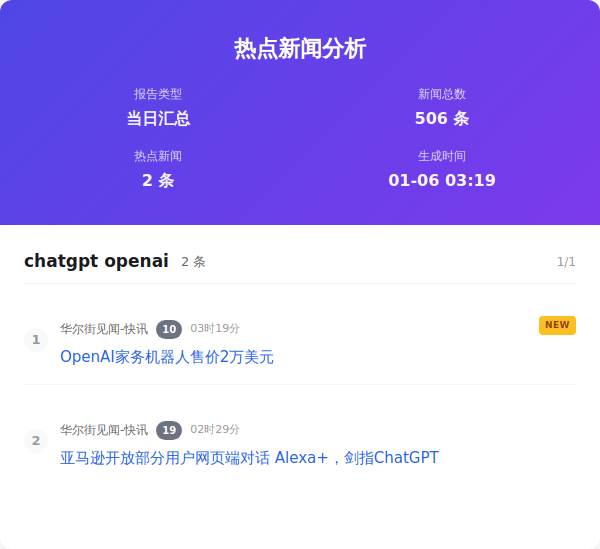
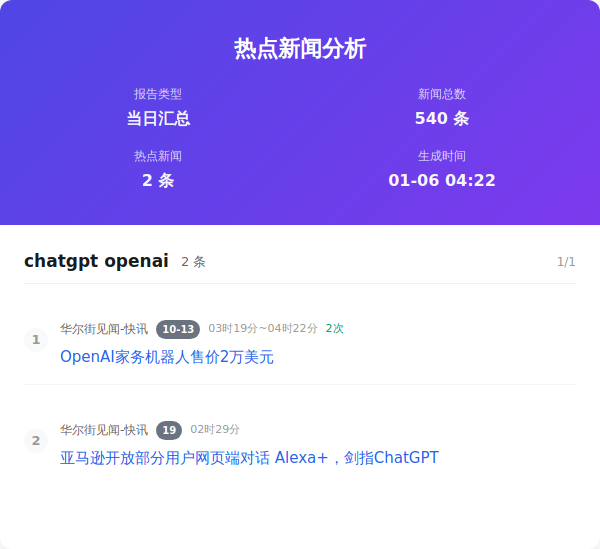
Auto update by GitHub Actions at Tue Jan  6 04:22:47 CST 2026

diff --git a/output/2026年01月06日/html/04时22分.html b/output/2026年01月06日/html/04时22分.html
@@ -353,15 +353,15 @@
                 <div class="header-info">
                     <div class="info-item">
                         <span class="info-label">报告类型</span>
-                        <span class="info-value">当日汇总</span>
+                        <span class="info-value">实时分析</span>
                     </div>
                     <div class="info-item">
                         <span class="info-label">新闻总数</span>
-                        <span class="info-value">540 条</span>
+                        <span class="info-value">255 条</span>
                     </div>
                     <div class="info-item">
                         <span class="info-label">热点新闻</span>
-                        <span class="info-value">2 条</span>
+                        <span class="info-value">0 条</span>
                     </div>
                     <div class="info-item">
                         <span class="info-label">生成时间</span>
@@ -371,35 +371,6 @@
             </div>
 
             <div class="content">
-                <div class="word-group">
-                    <div class="word-header">
-                        <div class="word-info">
-                            <div class="word-name">chatgpt openai</div>
-                            <div class="word-count ">2 条</div>
-                        </div>
-                        <div class="word-index">1/1</div>
-                    </div>
-                    <div class="news-item ">
-                        <div class="news-number">1</div>
-                        <div class="news-content">
-                            <div class="news-header">
-                                <span class="source-name">华尔街见闻-快讯</span><span class="rank-num ">10-13</span><span class="time-info">03时19分~04时22分</span><span class="count-info">2次</span>
-                            </div>
-                            <div class="news-title"><a href="https://wallstreetcn.com/livenews/3031066" target="_blank" class="news-link">OpenAI家务机器人售价2万美元</a>
-                            </div>
-                        </div>
-                    </div>
-                    <div class="news-item ">
-                        <div class="news-number">2</div>
-                        <div class="news-content">
-                            <div class="news-header">
-                                <span class="source-name">华尔街见闻-快讯</span><span class="rank-num ">19</span><span class="time-info">02时29分</span>
-                            </div>
-                            <div class="news-title"><a href="https://wallstreetcn.com/livenews/3031031" target="_blank" class="news-link">亚马逊开放部分用户网页端对话 Alexa+，剑指ChatGPT</a>
-                            </div>
-                        </div>
-                    </div>
-                </div>
             </div>
         </div>
     </body>

diff --git a/output/2026年01月06日/html/当日汇总.html b/output/2026年01月06日/html/当日汇总.html
@@ -357,7 +357,7 @@
                     </div>
                     <div class="info-item">
                         <span class="info-label">新闻总数</span>
-                        <span class="info-value">506 条</span>
+                        <span class="info-value">540 条</span>
                     </div>
                     <div class="info-item">
                         <span class="info-label">热点新闻</span>
@@ -365,7 +365,7 @@
                     </div>
                     <div class="info-item">
                         <span class="info-label">生成时间</span>
-                        <span class="info-value">01-06 03:19</span>
+                        <span class="info-value">01-06 04:22</span>
                     </div>
                 </div>
             </div>
@@ -379,11 +379,11 @@
                         </div>
                         <div class="word-index">1/1</div>
                     </div>
-                    <div class="news-item new">
+                    <div class="news-item ">
                         <div class="news-number">1</div>
                         <div class="news-content">
                             <div class="news-header">
-                                <span class="source-name">华尔街见闻-快讯</span><span class="rank-num ">10</span><span class="time-info">03时19分</span>
+                                <span class="source-name">华尔街见闻-快讯</span><span class="rank-num ">10-13</span><span class="time-info">03时19分~04时22分</span><span class="count-info">2次</span>
                             </div>
                             <div class="news-title"><a href="https://wallstreetcn.com/livenews/3031066" target="_blank" class="news-link">OpenAI家务机器人售价2万美元</a>
                             </div>
